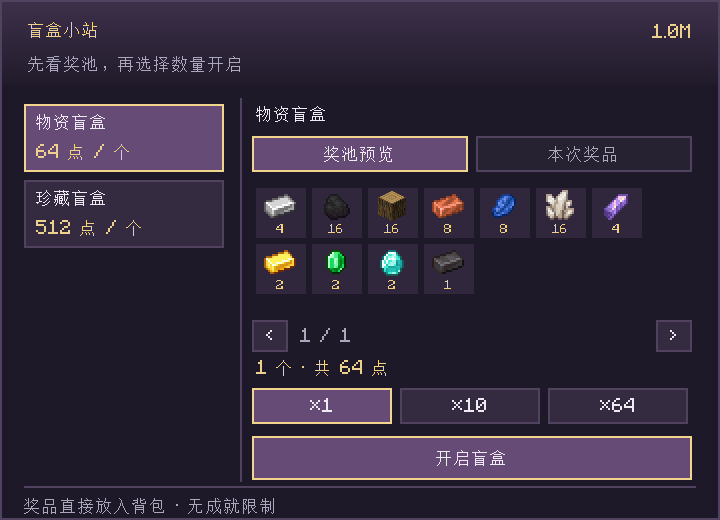
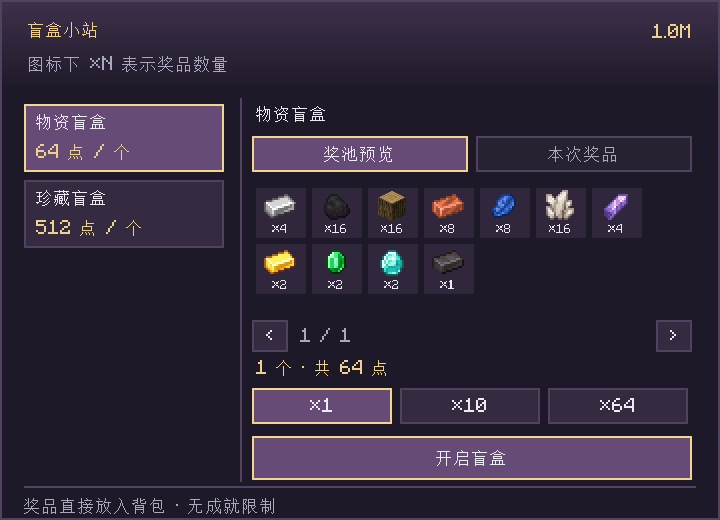
Clarify mystery box item counts and refresh purchase screenshot

diff --git a/src/main/java/com/evolt/teamecon/client/BlindBoxScreen.java b/src/main/java/com/evolt/teamecon/client/BlindBoxScreen.java
@@ -136,9 +136,9 @@ public final class BlindBoxScreen extends CompactContainerScreen<ShopMenu> {
             var id=ResourceLocation.tryParse(prize.itemKey());
             ItemStack icon=new ItemStack(id==null||prize.itemKey().equals("minecraft:air")?Items.PAPER:BuiltInRegistries.ITEM.get(id));
             g.renderItem(icon,dx+4,dy+1);
-            String count=prize.itemKey().equals("minecraft:air")?"—":String.valueOf(prize.count());
+            String count=prize.itemKey().equals("minecraft:air")?"—":"×"+prize.count();
             g.pose().pushPose();g.pose().translate(dx+12,dy+18,0);g.pose().scale(.625F,.625F,1);
-            g.drawString(font,count,-font.width(count)/2,0,GOLD,false);g.pose().popPose();
+            g.drawString(font,count,-font.width(count)/2,0,WHITE,false);g.pose().popPose();
         }
         fit(g,tr("page",rewardPage+1,Math.max(1,(shown.size()+capacity-1)/capacity)),x+22,imageHeight-96,w-44,DULL);
         long cost=selected==null?0:MoneyMath.total(selected.price(),amount);

diff --git a/CHANGELOG.md b/CHANGELOG.md
@@ -4,6 +4,7 @@
 
 - 自动售货机与 `/teamecon shop` 自动恢复每位玩家上次使用的页签，偏好保存在本机客户端，重启游戏后仍保留；首次使用打开「商品」页。盲盒机与无线终端的指定页面入口保持各自用途。
 - 商店支持中文名称的全拼与拼音首字母搜索。例如「金锭」可输入 `jinding` 或 `jd`，同时支持简体、繁体以及 `lv` / `lü` 输入。名称、物品 ID 与 `#标签` 搜索继续可用。
+- 盲盒奖池与领取结果以「×数量」标注奖品数量，界面提供数量说明。
 - 金属块、宝石块、红石块、煤炭块、青金石块与干草块按基础材料数量估价，不叠加可逆压缩的合成加价。默认金锭为 64 点，金块基础估价为 576 点；实际回收收入仍受市场需求影响。服主明确设置的方块基础价格优先。
 
 - 新增 `/teamecon admin prices` 创造物品栏式定价面板，支持中文、物品 ID、全拼和首字母搜索；分别设置购买与回收价格，保存生效并可恢复默认。支持显式开启第三方普通物品回收。
@@ -13,6 +14,7 @@
 
 - Vending Machines and `/teamecon shop` restore each player's last tab, saved on the local client across game restarts. First-time users start on **Items**. Mystery Box Machines and Wireless Terminal shortcuts retain their designated pages.
 - Shop searches accept full pinyin and initials for Chinese display names, including simplified/traditional text and `lv` / `lü` input. Name, item ID and `#tag` searches remain available.
+- Mystery box previews and receipts label item counts with × and include a quantity explanation.
 - Metal and gem storage blocks, redstone/coal/lapis blocks and hay bales use the value of their base materials without reversible crafting markup. With defaults, a gold ingot is valued at 64 points and a gold block at 576 before demand adjustments. Explicit server base-price overrides take precedence.
 
 - Added a creative-style operator pricing panel with name/ID/pinyin search, independent purchase and recycling overrides, instant save and reset, and explicit mod-item recycling.

diff --git a/README_EN.md b/README_EN.md
@@ -63,7 +63,7 @@ Upgrading unlocks permission to use equipment. Machines must still be crafted or
 
 ![Scratch ticket purchase page with ticket types and face-value selection](docs/images/screenshots/scratch-purchase.png)
 
-The separate **Mystery Box Machine** shows its prize pools before you buy. Open 1, 10 or 64 boxes at a time and review the rewards. Pools include materials, valuable items and friendly or neutral mob spawn eggs available in your Minecraft version. Each draw uses the displayed pool; opening a batch does not increase an individual draw's odds.
+The separate **Mystery Box Machine** shows its prize pools before you buy. Open 1, 10 or 64 boxes at a time and review the rewards. Labels such as ×1 below the icons show item counts. Pools include materials, valuable items and friendly or neutral mob spawn eggs available in your Minecraft version. Each draw uses the displayed pool; opening a batch does not increase an individual draw's odds.
 
 ![Mystery box purchase page with prize preview and batch selection](docs/images/screenshots/blind-box-purchase.png)
 
